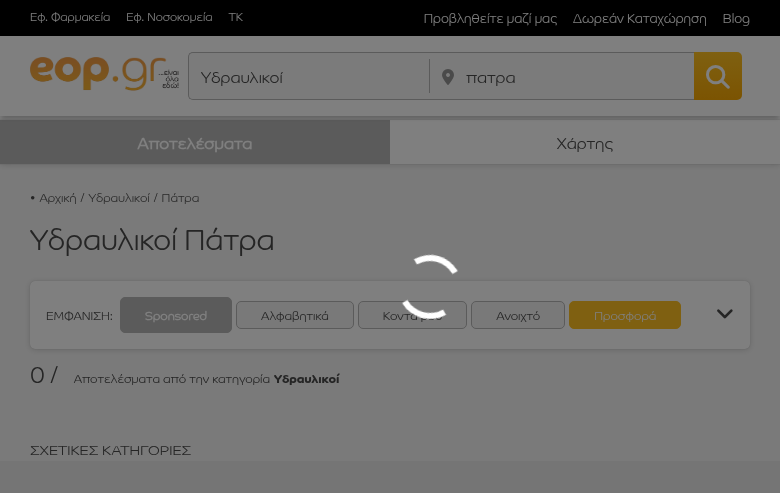
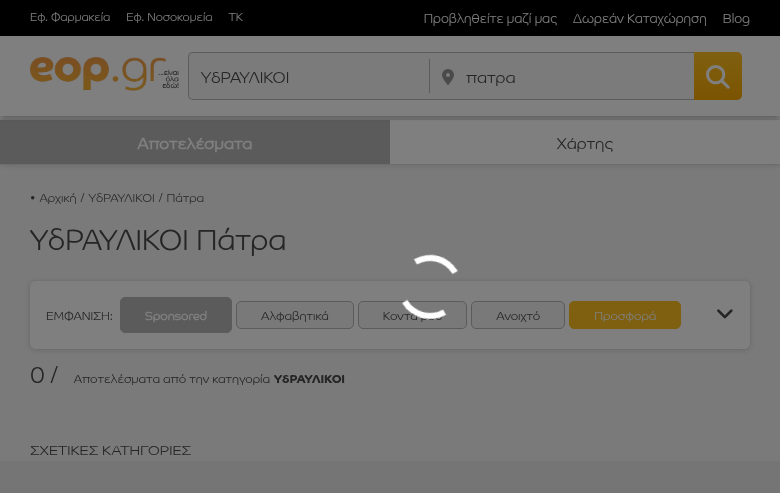
we get address

diff --git a/pages/api/scrape.ts b/pages/api/scrape.ts
@@ -13,7 +13,7 @@ export default async function handler(req: NextApiRequest, res: NextApiResponse)
         const page = await browser.newPage();
 
         // URL is predefined (or you can extract it from the request)
-        const url = `https://www.eop.gr/search/company?keyword=%CE%A5%CE%B4%CF%81%CE%B1%CF%85%CE%BB%CE%B9%CE%BA%CE%BF%CE%AF&region=%CF%80%CE%B1%CF%84%CF%81%CE%B1&term_id=11082&parent_region=`;
+        const url = `https://www.eop.gr/search/company?keyword=%CE%A5%CE%B4%CE%A1%CE%91%CE%A5%CE%9B%CE%99%CE%9A%CE%9F%CE%99&region=%CF%80%CE%B1%CF%84%CF%81%CE%B1&term_id=11082&parent_region=`;
 
         console.log("Scraping URL:", url);
 
@@ -23,28 +23,37 @@ export default async function handler(req: NextApiRequest, res: NextApiResponse)
         await page.screenshot({ path: 'screenshot.png' });
 
         // Wait for the selector to appear with increased timeout
-        await page.waitForSelector(".company--details", { timeout: 60000 });
+        await page.waitForSelector("article.row", { timeout: 60000 });
 
         // Scrape the company data
-        const companies = await page.$$eval(".company--details", (details) =>
-            details.map((detail) => {
-                const websiteElement = detail.querySelector("a[data-type='company--website']");
-                const emailElement = detail.querySelector(".company--emails a");
-                const phoneElements = detail.querySelectorAll(".company--phones a[href^='tel:']");
-                const locationElement = detail.querySelector("a.social-sharing[href*='goo.gl/maps']");
+        const companies = await page.$$eval("article.row", (articles) =>
+            articles.map((article) => {
+                // Scraping all required details
+                const companyNameElement = article.querySelector("h2.article--title");
+                const websiteElement = article.querySelector("a[data-type='company--website']");
+                const emailElement = article.querySelector(".company--emails a");
+                const phoneElements = article.querySelectorAll(".company--phones a[href^='tel:']");
+                const locationElement = article.querySelector("a.routing-link");
+                const addressElement = article.querySelector(".company--address");
+                const descriptionElement = article.querySelector(".company--description p");
+                const categoryElement = article.querySelector(".company--category span");
 
                 return {
+                    companyName: companyNameElement ? companyNameElement.textContent?.trim() || "N/A" : "N/A",
                     website: websiteElement ? websiteElement.getAttribute('href') || "N/A" : "N/A",
                     email: emailElement ? emailElement.textContent?.trim() || "N/A" : "N/A",
                     phones: Array.from(phoneElements)
                         .map(phone => phone.textContent?.trim() || "N/A")
                         .join(", "),
                     location: locationElement ? locationElement.getAttribute('href') || "N/A" : "N/A",
+                    address: addressElement ? addressElement.textContent?.trim() || "N/A" : "N/A",
+                    description: descriptionElement ? descriptionElement.textContent?.trim() || "N/A" : "N/A",
+                    category: categoryElement ? categoryElement.textContent?.trim() || "N/A" : "N/A",
                 };
             })
         );
 
-        console.log("Scraping complete.", companies);
+        console.log("Scraping complete. Total companies scraped:", companies.length);
 
         await browser.close();
 
@@ -57,3 +66,4 @@ export default async function handler(req: NextApiRequest, res: NextApiResponse)
         });
     }
 }
+
